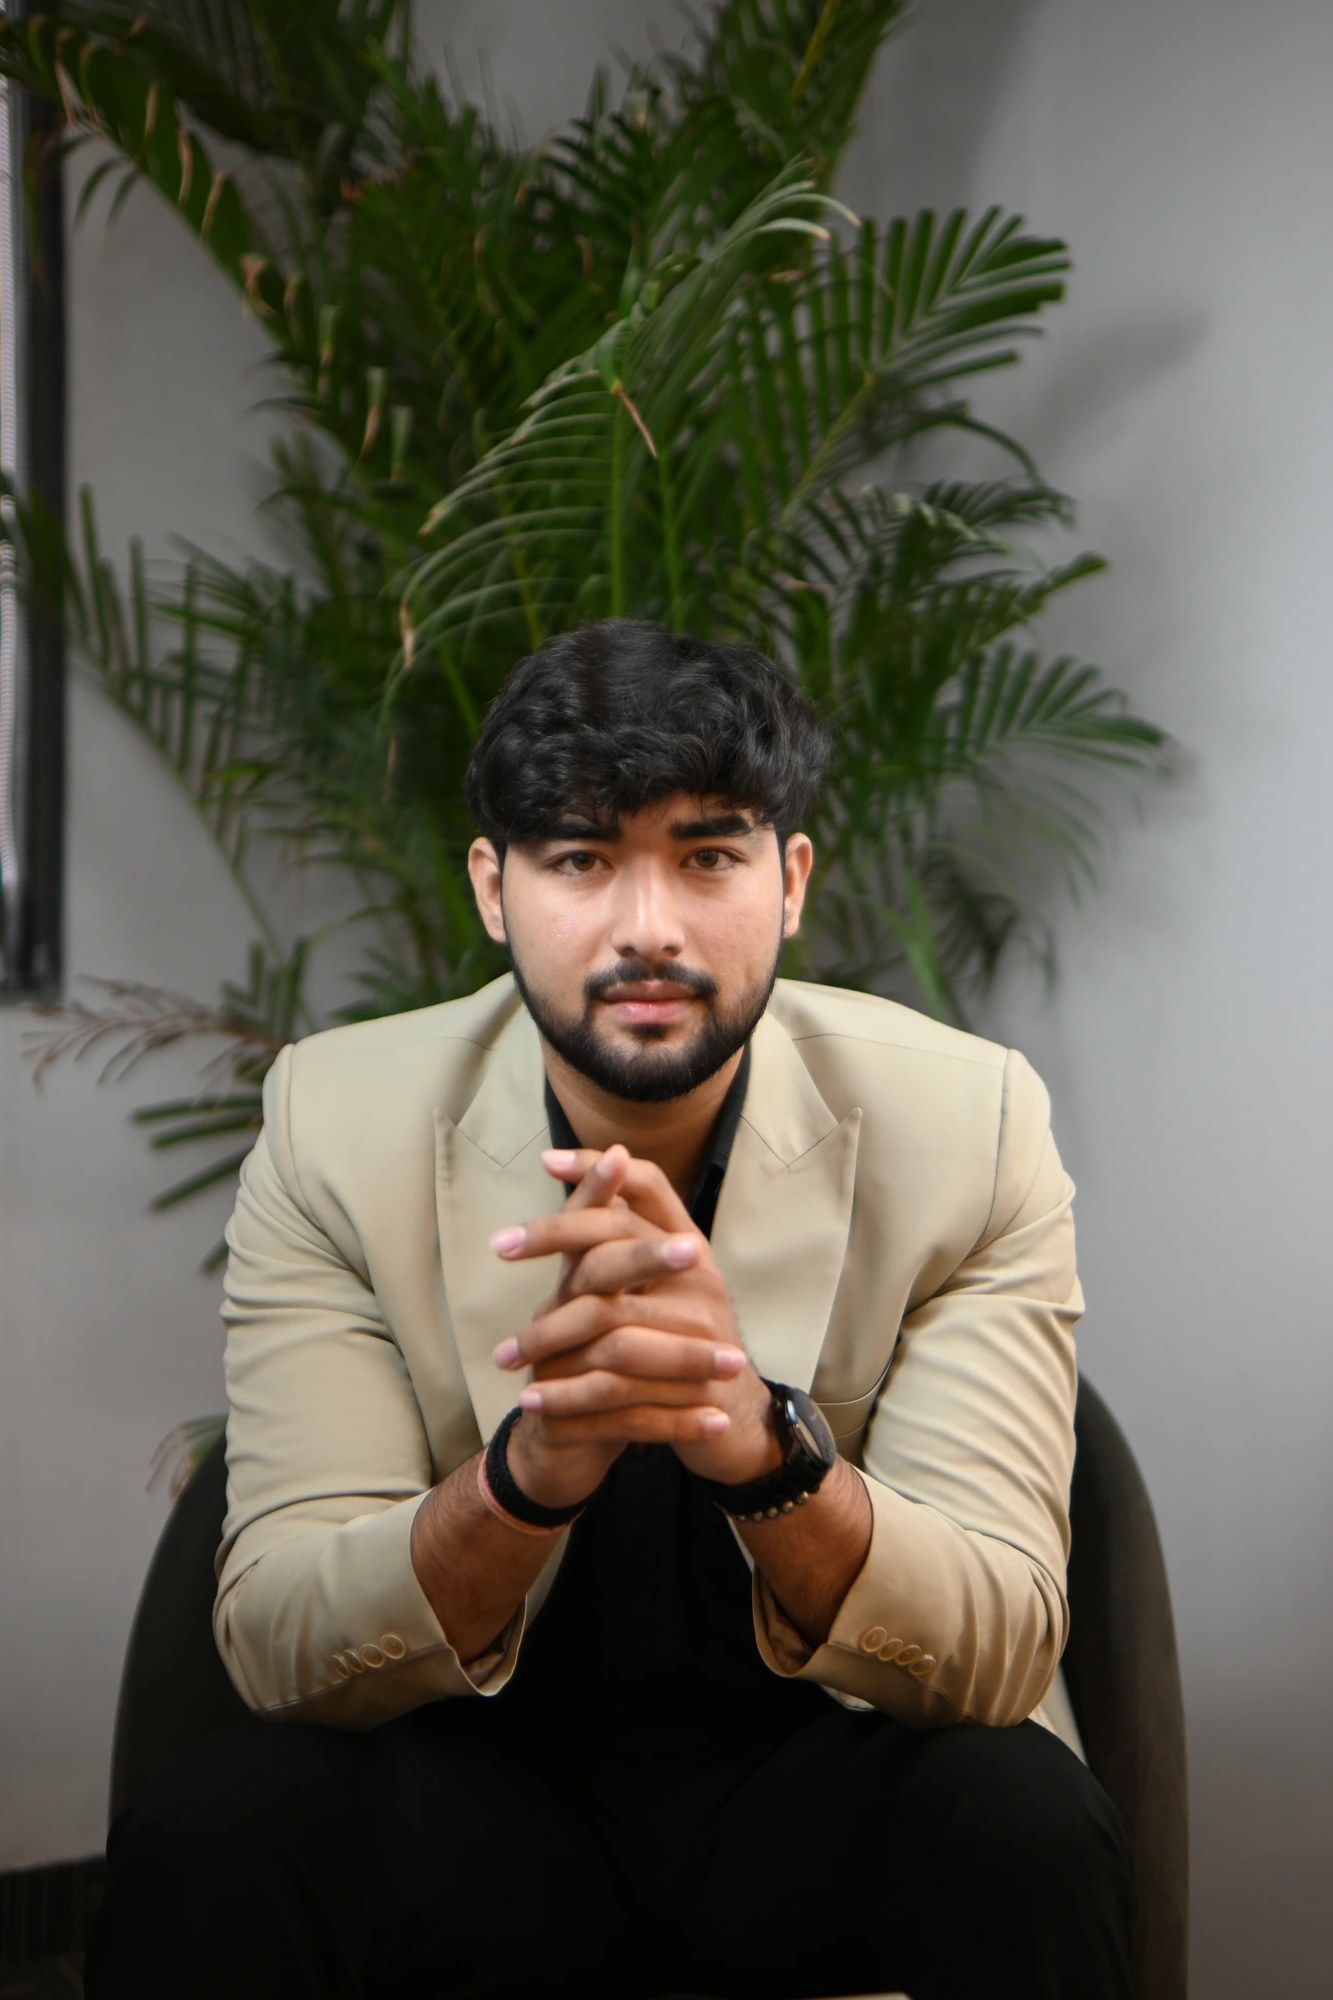
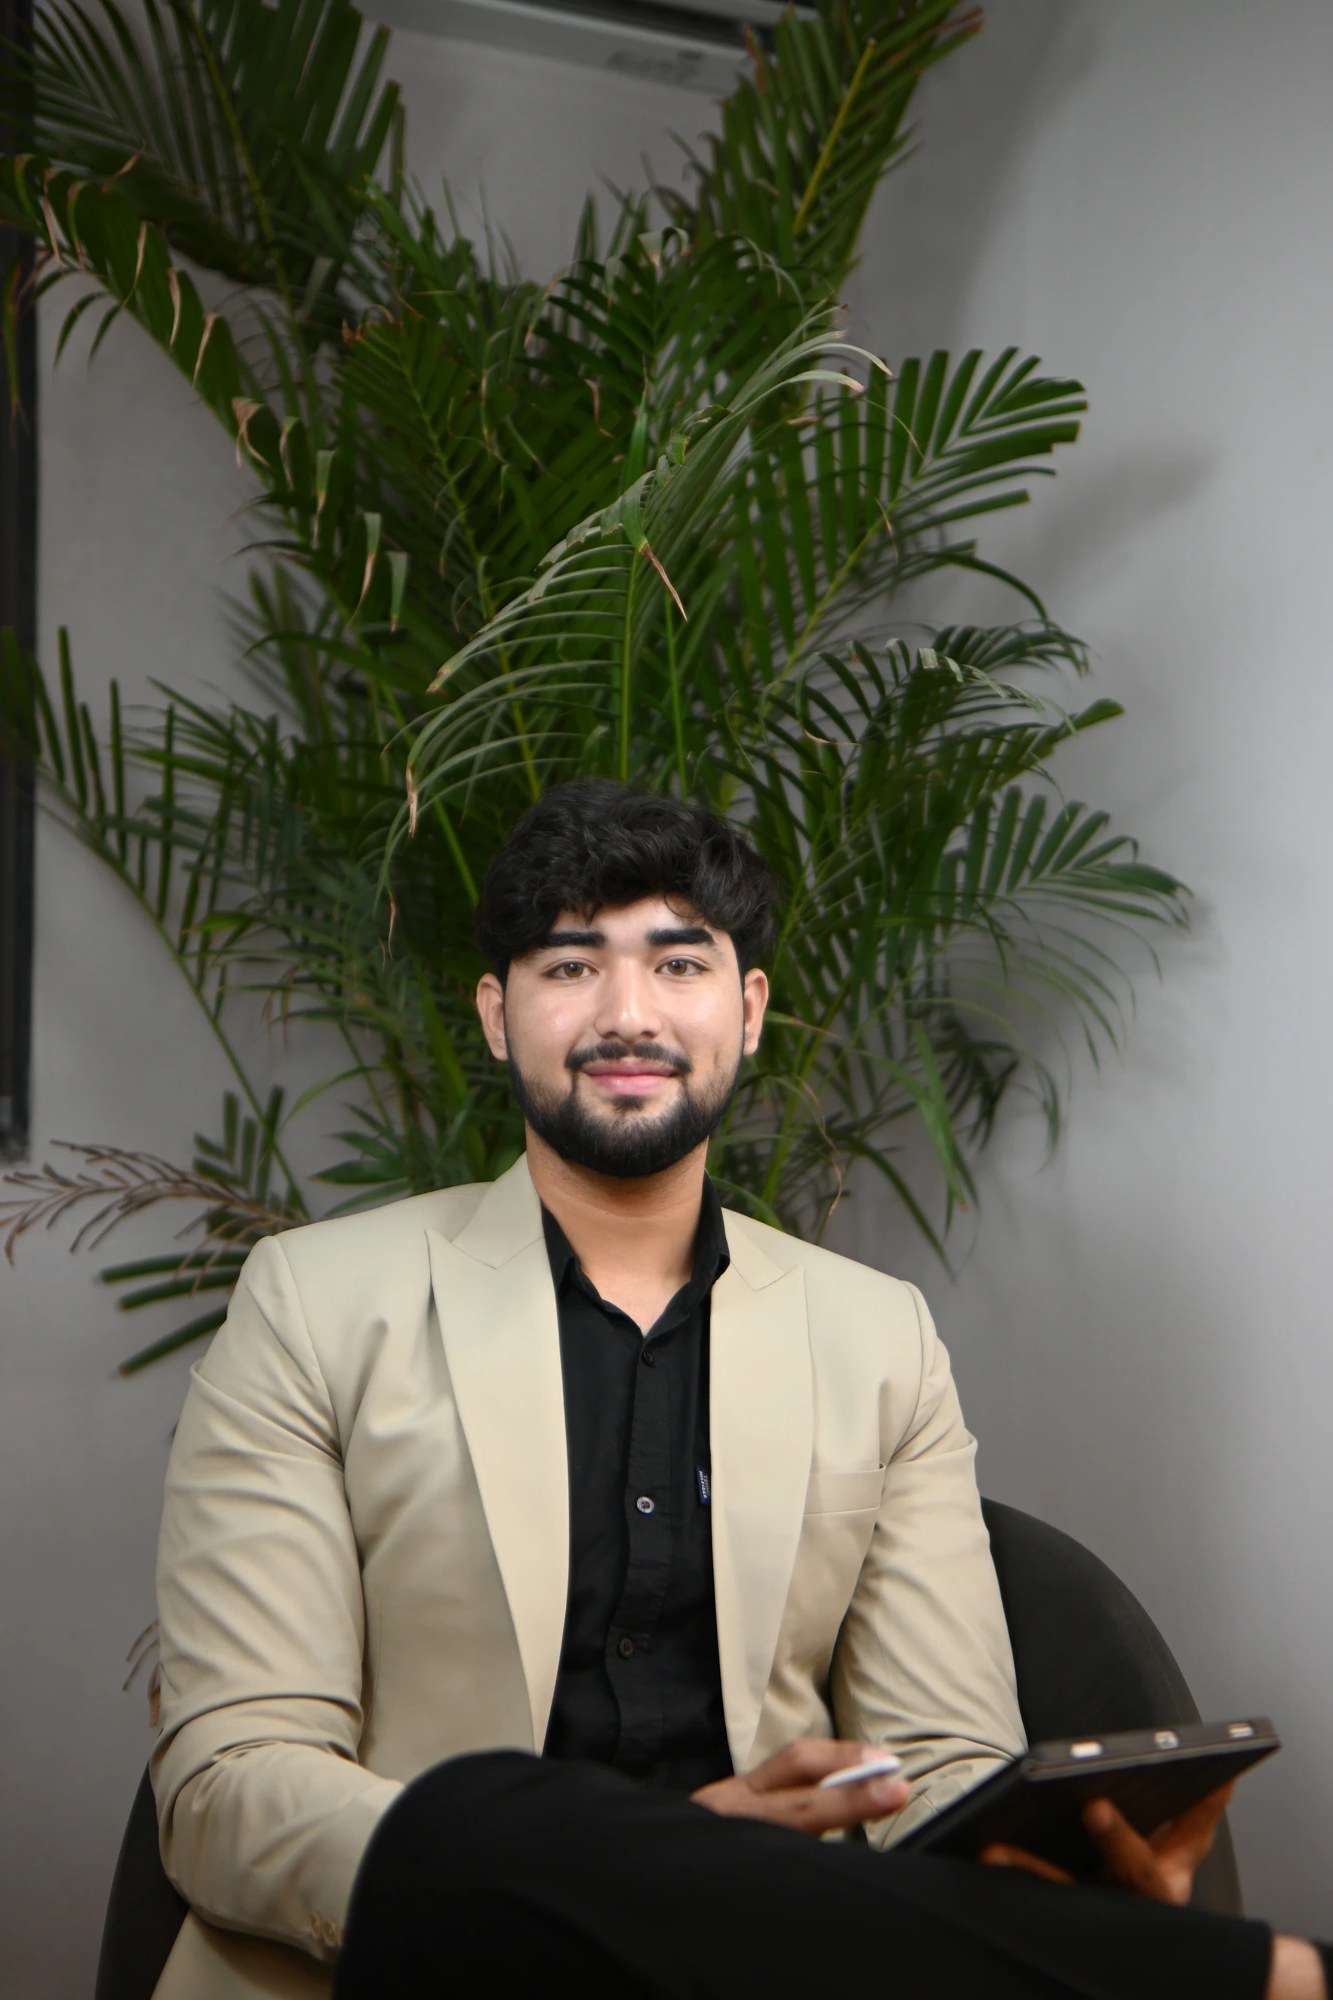
**Aman's new photo + Rajat's crop fixed — complete** - Aman's card now uses the new photo (beige blazer, plant backdrop) — I rotated it upright and centered his face in the portrait panel - Rajat's photo was reframed so his face sits properly with headroom instead of cropping at the forehead - Check

diff --git a/frontend/src/pages/Home.jsx b/frontend/src/pages/Home.jsx
@@ -102,7 +102,7 @@ const MENTORS = [
     bio: "Leads the online cohort experience, known for breaking down price action and market structure for beginners.",
     stat: "750k+ on Instagram",
     photo: "/mentor-aman.jpg",
-    focus: "45% 62%",
+    focus: "52% 58%",
   },
   {
     name: "Rajat Sharma",
@@ -110,7 +110,7 @@ const MENTORS = [
     bio: "Builds and leads One Stock Academy's trading community, translating market moves into content.",
     stat: "150k+ traders on Instagram",
     photo: "/mentor-rajat.jpg",
-    focus: "50% 28%",
+    focus: "50% 18%",
   },
   {
     name: "Rishabh Mishra",
